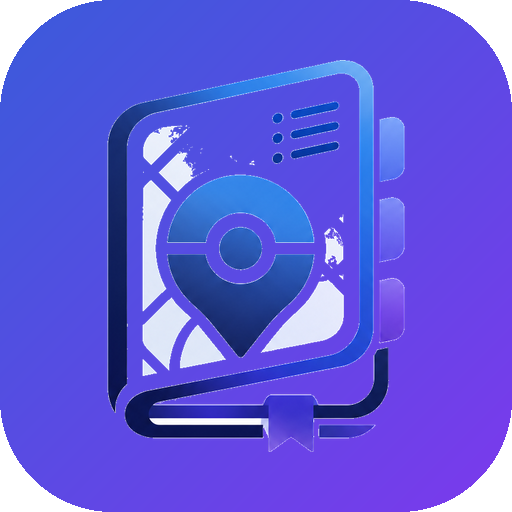
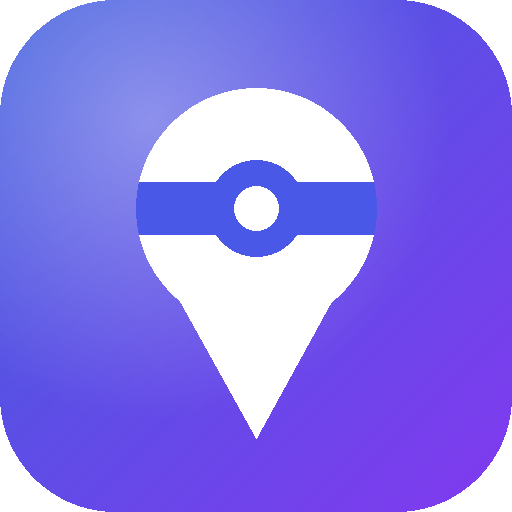
fix(gbl): 상세페이지 CMP섹션 제거·카운터 상단배치 + 파비콘 심플화
- 개체 상세: CMP 우선권 섹션 삭제 → 카운터/잘잡는상대 상단, 종족값·역할점수 하단
- CMP 리스트(/gbl/cmp)는 top200 유지(풍부한 데이터=차별점)
- 파비콘/헤더 아이콘: 디테일 많은 노트북 → 심플 몬스터볼 핀(작은 사이즈서 선명)

diff --git a/frontend/app/gbl/pokemon/[league]/[id]/page.tsx b/frontend/app/gbl/pokemon/[league]/[id]/page.tsx
@@ -141,17 +141,6 @@ function OppRow({ league, id, rating }: { league: string; id: string; rating: nu
   );
 }
 
-// CMP 비교 행(공격 종족값 표시)
-function CmpRow({ league, d, color }: { league: string; d: Detail; color: string }) {
-  return (
-    <Link href={`/gbl/pokemon/${league}/${d.id}`} style={{ textDecoration: "none", display: "flex", alignItems: "center", gap: 6, background: "#fff", border: `1px solid ${BORDER}`, borderRadius: 8, padding: "4px 8px" }}>
-      <Sprite id={d.id} size={26} />
-      <span style={{ fontSize: "0.78rem", fontWeight: 600, color: "#0f172a", overflow: "hidden", textOverflow: "ellipsis", whiteSpace: "nowrap" }}>{nameOf(d.id)}</span>
-      <span style={{ marginLeft: "auto", fontSize: "0.72rem", fontWeight: 800, color }}>{d.stats.atk}</span>
-    </Link>
-  );
-}
-
 export default async function PokemonDetail({ params }: { params: { league: string; id: string } }) {
   const lg = LEAGUES[params.league];
   const d = findDetail(params.league, params.id);
@@ -167,10 +156,6 @@ export default async function PokemonDetail({ params }: { params: { league: stri
   const pr = pick[d.id];
 
   // CMP(공격력 우선권): 이 리그 상위종을 공격력순 정렬 → 내 위/아래 이웃(가까운 상대가 실전 관건)
-  const byAtk = (DET[params.league] || []).filter((x) => x.stats && x.stats.atk).sort((a, b) => (b.stats.atk || 0) - (a.stats.atk || 0));
-  const atkIdx = byAtk.findIndex((x) => x.id === d.id);
-  const cmpWins = atkIdx >= 0 ? byAtk.slice(atkIdx + 1, atkIdx + 6) : [];        // 공격력 낮음 → 내가 CMP 우선
-  const cmpLoses = atkIdx >= 0 ? byAtk.slice(Math.max(0, atkIdx - 5), atkIdx) : []; // 공격력 높음 → 상대가 먼저
 
   const wrap: React.CSSProperties = {
     minHeight: "100dvh",
@@ -255,34 +240,23 @@ export default async function PokemonDetail({ params }: { params: { league: stri
           )}
         </div>
 
-        {/* CMP 우선권 (공격력 순서) */}
-        {atkIdx >= 0 && (
-          <>
-            <h2 style={h2}>⚡ CMP 우선권 — 같은 턴 차지 시 누가 먼저</h2>
-            <p style={{ margin: "0 0 8px", fontSize: "0.82rem", color: "#475569", lineHeight: 1.7 }}>
-              공격력 <b style={{ color: "#0f172a" }}>{d.stats.atk}</b> · 이 리그 공격력 <b>{atkIdx + 1}위</b> / {byAtk.length}종.
-              상대와 <b>동시에 차지 기술</b>을 쏘면 공격력이 높은 쪽이 <b>먼저 발동</b>해 이깁니다(CMP 우선권).
-            </p>
-            <div style={{ display: "grid", gridTemplateColumns: "1fr 1fr", gap: 12 }}>
-              <div>
-                <div style={{ fontSize: "0.76rem", fontWeight: 700, color: "#16a34a", marginBottom: 6 }}>✅ 내가 먼저 (이 상대 이김)</div>
-                {cmpWins.length ? (
-                  <div style={{ display: "flex", flexDirection: "column", gap: 5 }}>{cmpWins.map((x) => <CmpRow key={x.id} league={params.league} d={x} color="#16a34a" />)}</div>
-                ) : <p style={{ fontSize: "0.78rem", color: "#94a3b8" }}>공격력 최하위권</p>}
-              </div>
-              <div>
-                <div style={{ fontSize: "0.76rem", fontWeight: 700, color: "#dc2626", marginBottom: 6 }}>⚠ 상대가 먼저 (내가 밀림)</div>
-                {cmpLoses.length ? (
-                  <div style={{ display: "flex", flexDirection: "column", gap: 5 }}>{cmpLoses.map((x) => <CmpRow key={x.id} league={params.league} d={x} color="#dc2626" />)}</div>
-                ) : <p style={{ fontSize: "0.78rem", color: "#94a3b8" }}>이 리그 공격력 1위</p>}
-              </div>
-            </div>
-            <p style={{ marginTop: 8, fontSize: "0.72rem", color: "#94a3b8", lineHeight: 1.6 }}>
-              공격력이 가까운 상대만 표시 — 실전에서 CMP가 실제로 갈리는 구간입니다. 숫자 = 공격 종족값.{" "}
-              <Link href={`/gbl/cmp/${params.league}`} style={{ color: "#3b5bdb", fontWeight: 600 }}>전체 우선권 순위 →</Link>
-            </p>
-          </>
-        )}
+        {/* 카운터 (이 포켓몬에게 강한 상대) — 상단 배치 */}
+        <h2 style={h2}>🛡 {name} 카운터 (이 포켓몬에게 강한 상대)</h2>
+        <p style={{ margin: "0 0 8px", fontSize: "0.78rem", color: "#64748b" }}>{name}를 상대로 유리한 포켓몬입니다. {name}를 자주 만난다면 아래를 준비하세요.</p>
+        {d.counters.length ? (
+          <div style={{ display: "flex", flexDirection: "column", gap: 6 }}>
+            {d.counters.map((c) => <OppRow key={c.id} league={params.league} id={c.id} rating={c.r} />)}
+          </div>
+        ) : <p style={{ fontSize: "0.82rem", color: "#94a3b8" }}>데이터 없음</p>}
+
+        {/* 잘 잡는 상대 */}
+        <h2 style={h2}>⚔ {name}가 잘 잡는 상대</h2>
+        <p style={{ margin: "0 0 8px", fontSize: "0.78rem", color: "#64748b" }}>{name}로 유리하게 상대할 수 있는 포켓몬입니다.</p>
+        {d.wins.length ? (
+          <div style={{ display: "flex", flexDirection: "column", gap: 6 }}>
+            {d.wins.map((w) => <OppRow key={w.id} league={params.league} id={w.id} rating={w.r} />)}
+          </div>
+        ) : <p style={{ fontSize: "0.82rem", color: "#94a3b8" }}>데이터 없음</p>}
 
         {/* 종족값 */}
         {d.stats && (d.stats.atk || d.stats.def || d.stats.hp) && (
@@ -318,24 +292,6 @@ export default async function PokemonDetail({ params }: { params: { league: stri
         )}
 
         <AdSlot />
-
-        {/* 카운터 */}
-        <h2 style={h2}>🛡 {name} 카운터 (이 포켓몬에게 강한 상대)</h2>
-        <p style={{ margin: "0 0 8px", fontSize: "0.78rem", color: "#64748b" }}>{name}를 상대로 유리한 포켓몬입니다. {name}를 자주 만난다면 아래를 준비하세요.</p>
-        {d.counters.length ? (
-          <div style={{ display: "flex", flexDirection: "column", gap: 6 }}>
-            {d.counters.map((c) => <OppRow key={c.id} league={params.league} id={c.id} rating={c.r} />)}
-          </div>
-        ) : <p style={{ fontSize: "0.82rem", color: "#94a3b8" }}>데이터 없음</p>}
-
-        {/* 잘 잡는 상대 */}
-        <h2 style={h2}>⚔ {name}가 잘 잡는 상대</h2>
-        <p style={{ margin: "0 0 8px", fontSize: "0.78rem", color: "#64748b" }}>{name}로 유리하게 상대할 수 있는 포켓몬입니다.</p>
-        {d.wins.length ? (
-          <div style={{ display: "flex", flexDirection: "column", gap: 6 }}>
-            {d.wins.map((w) => <OppRow key={w.id} league={params.league} id={w.id} rating={w.r} />)}
-          </div>
-        ) : <p style={{ fontSize: "0.82rem", color: "#94a3b8" }}>데이터 없음</p>}
 
         {/* 설명 */}
         <div style={{ marginTop: 22, padding: "1rem", background: CARD, border: `1px solid ${BORDER}`, borderRadius: 12 }}>
